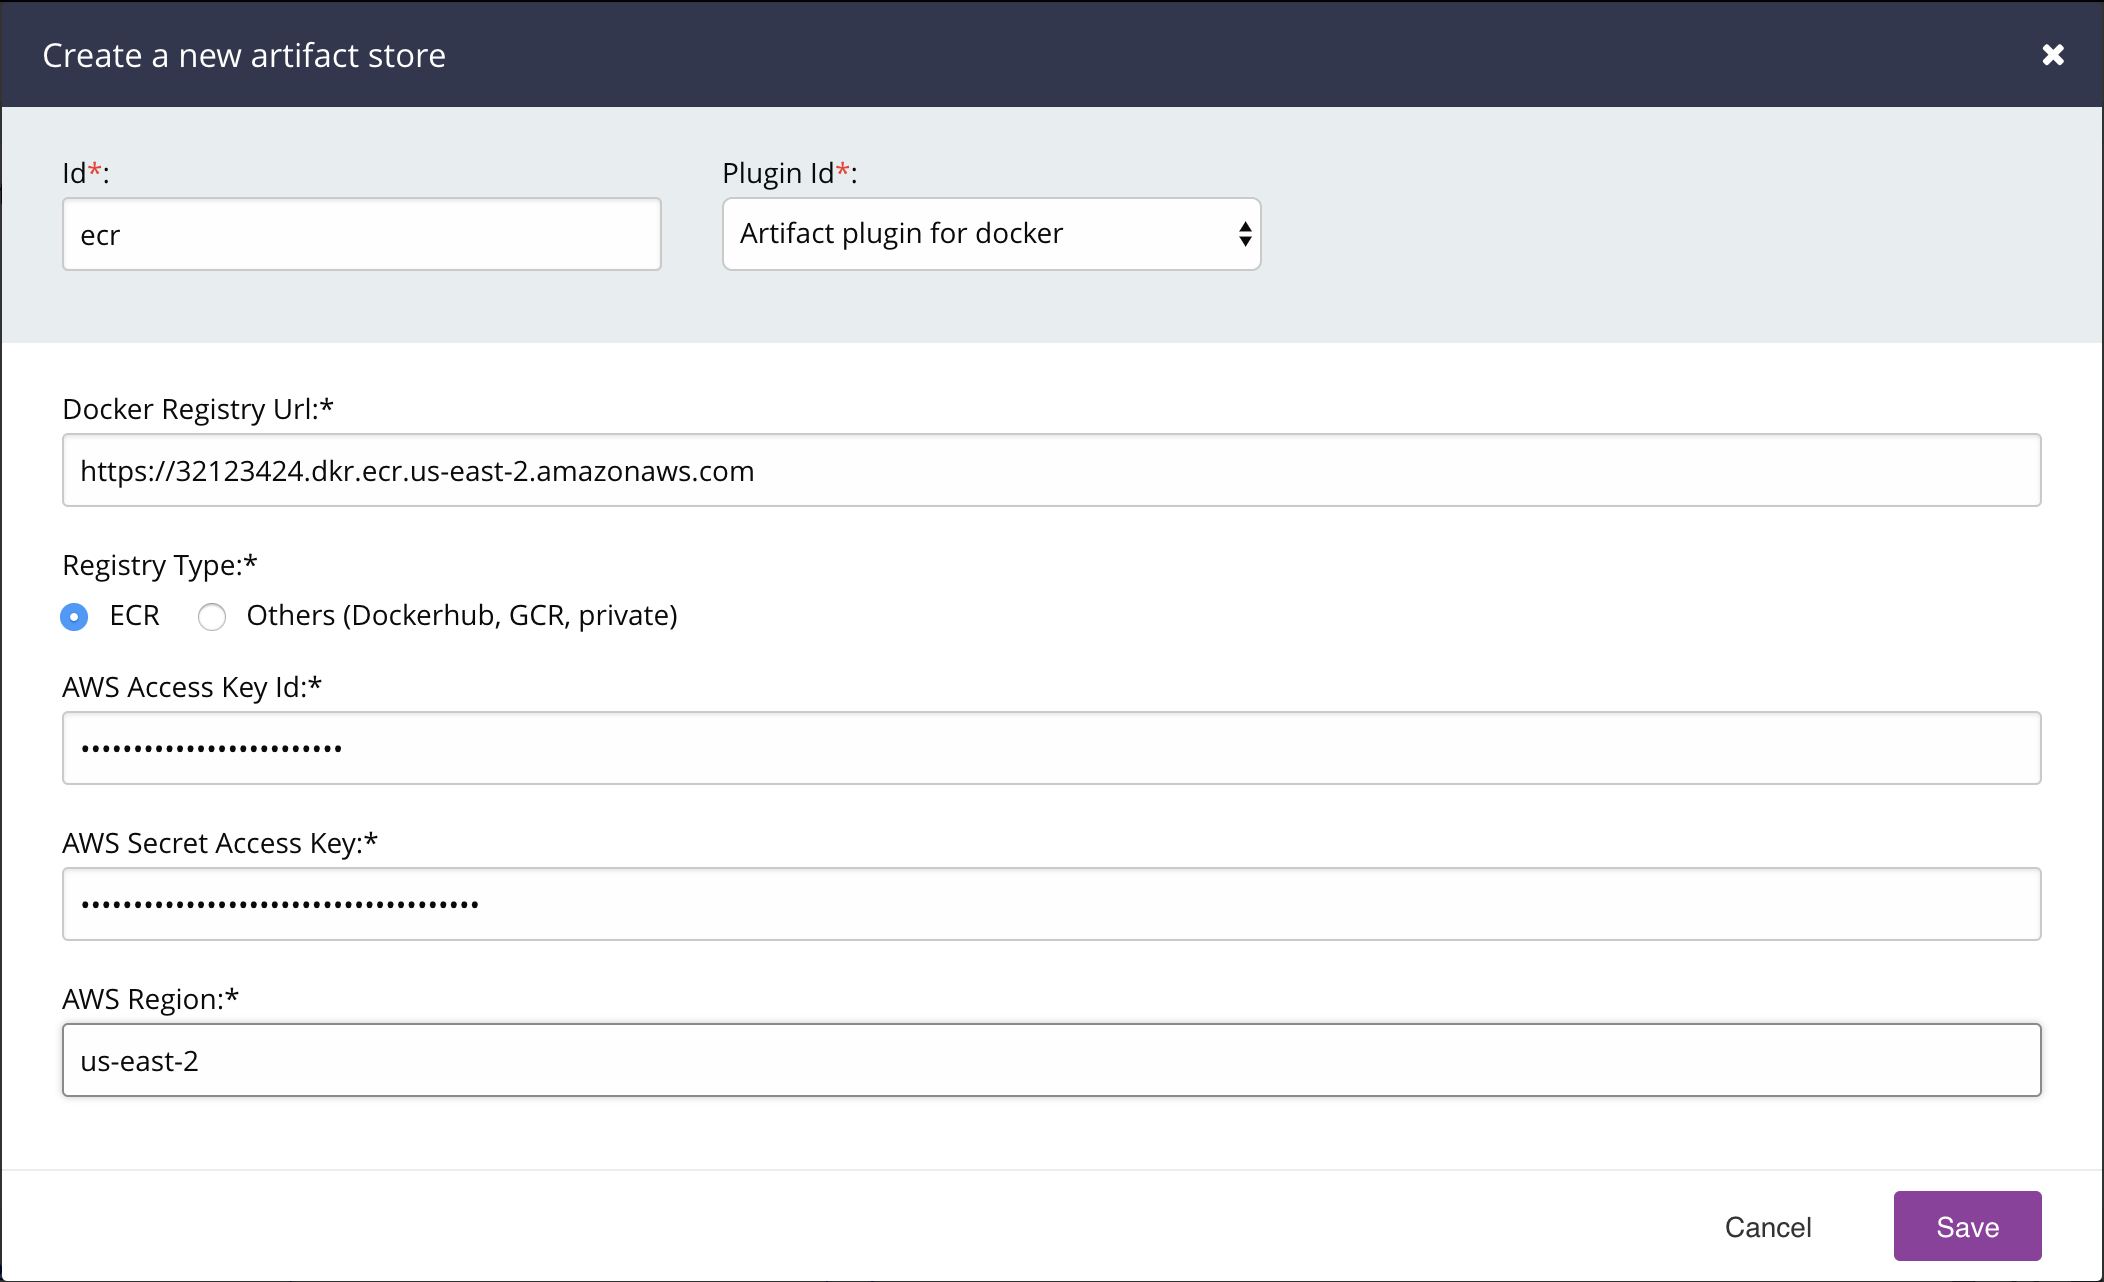
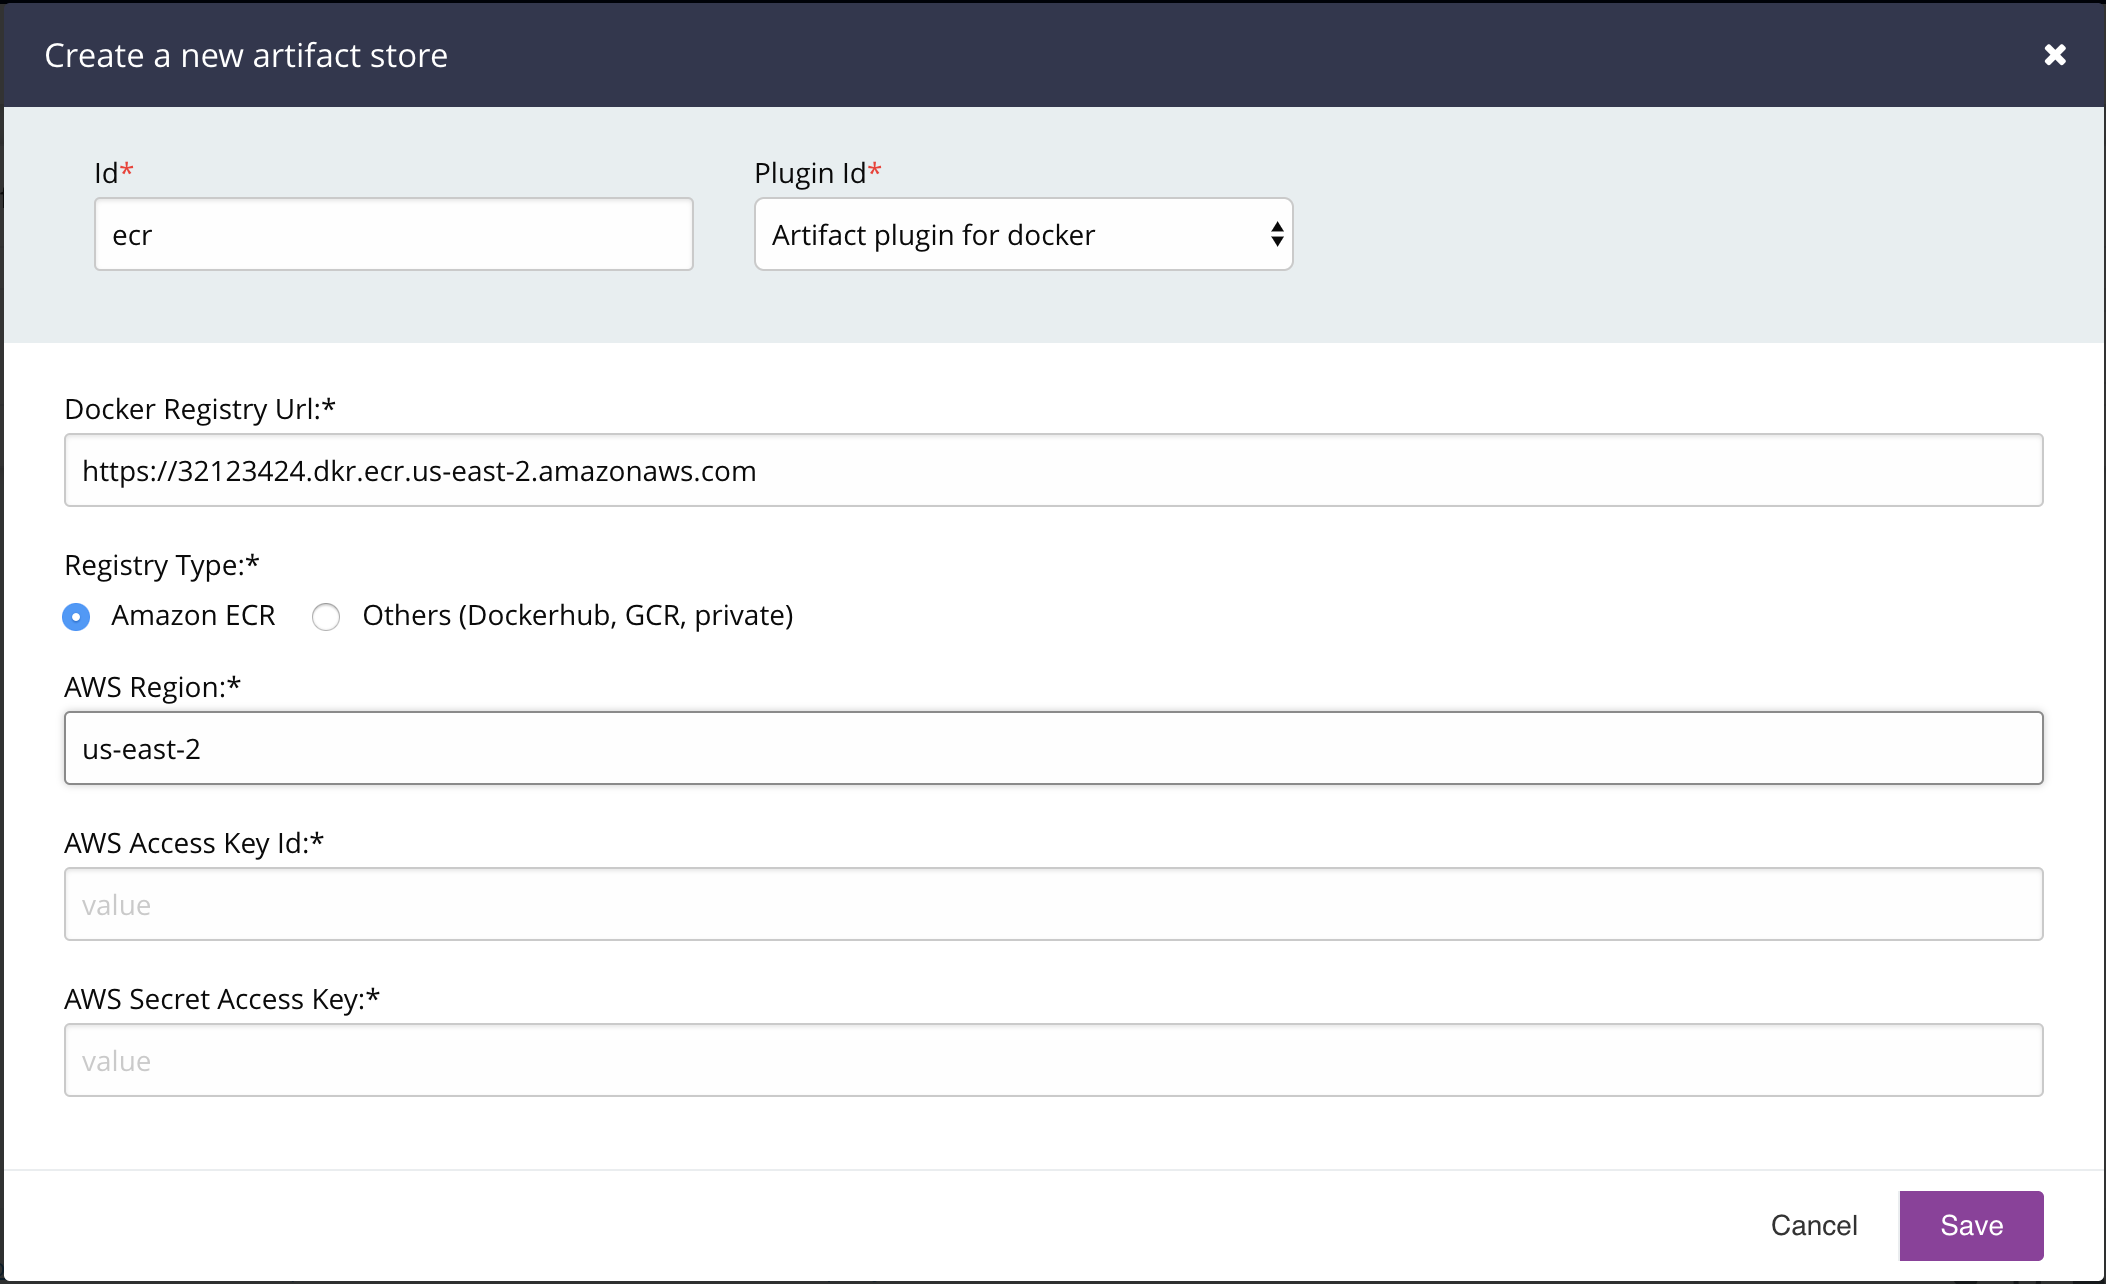
Make AWS keys optional. * If not provided, to get the ECR token - environment variables, system properties, aws profile (~/.aws/credentials), instance profile are checked.

diff --git a/src/main/resources/artifact-store.template.html b/src/main/resources/artifact-store.template.html
@@ -16,21 +16,21 @@
 
 <div ng-show="RegistryType == 'ecr'">
     <div class="form_item_block">
-        <label ng-class="{'is-invalid-label': GOINPUTNAME[AWSAccessKeyId].$error.server}">AWS Access Key Id:<span class='asterix'>*</span></label>
+        <label ng-class="{'is-invalid-label': GOINPUTNAME[AWSRegion].$error.server}">AWS Region:<span class='asterix'>*</span></label>
+        <input ng-class="{'is-invalid-input': GOINPUTNAME[AWSRegion].$error.server}" type="text" ng-model="AWSRegion" ng-required="true" placeholder="value"/>
+        <span class="form_error form-error" ng-class="{'is-visible': GOINPUTNAME[AWSRegion].$error.server}" ng-show="GOINPUTNAME[AWSRegion].$error.server">{{GOINPUTNAME[AWSRegion].$error.server}}</span>
+    </div>
+
+    <div class="form_item_block">
+        <label ng-class="{'is-invalid-label': GOINPUTNAME[AWSAccessKeyId].$error.server}">AWS Access Key Id:</label>
         <input ng-class="{'is-invalid-input': GOINPUTNAME[AWSAccessKeyId].$error.server}" type="password" ng-model="AWSAccessKeyId" ng-required="true" placeholder="value"/>
         <span class="form_error form-error" ng-class="{'is-visible': GOINPUTNAME[AWSAccessKeyId].$error.server}" ng-show="GOINPUTNAME[AWSAccessKeyId].$error.server">{{GOINPUTNAME[AWSAccessKeyId].$error.server}}</span>
     </div>
 
     <div class="form_item_block">
-        <label ng-class="{'is-invalid-label': GOINPUTNAME[AWSSecretAccessKey].$error.server}">AWS Secret Access Key:<span class='asterix'>*</span></label>
+        <label ng-class="{'is-invalid-label': GOINPUTNAME[AWSSecretAccessKey].$error.server}">AWS Secret Access Key:</label>
         <input ng-class="{'is-invalid-input': GOINPUTNAME[AWSSecretAccessKey].$error.server}" type="password" ng-model="AWSSecretAccessKey" ng-required="true" placeholder="value"/>
         <span class="form_error form-error" ng-class="{'is-visible': GOINPUTNAME[AWSSecretAccessKey].$error.server}" ng-show="GOINPUTNAME[AWSSecretAccessKey].$error.server">{{GOINPUTNAME[AWSSecretAccessKey].$error.server}}</span>
-    </div>
-
-    <div class="form_item_block">
-        <label ng-class="{'is-invalid-label': GOINPUTNAME[AWSRegion].$error.server}">AWS Region:<span class='asterix'>*</span></label>
-        <input ng-class="{'is-invalid-input': GOINPUTNAME[AWSRegion].$error.server}" type="text" ng-model="AWSRegion" ng-required="true" placeholder="value"/>
-        <span class="form_error form-error" ng-class="{'is-visible': GOINPUTNAME[AWSRegion].$error.server}" ng-show="GOINPUTNAME[AWSRegion].$error.server">{{GOINPUTNAME[AWSRegion].$error.server}}</span>
     </div>
 </div>
 

diff --git a/src/main/java/cd/go/artifact/docker/registry/AWSTokenRequestGenerator.java b/src/main/java/cd/go/artifact/docker/registry/AWSTokenRequestGenerator.java
@@ -1,0 +1,71 @@
+/*
+ * Copyright 2019 ThoughtWorks, Inc.
+ *
+ * Licensed under the Apache License, Version 2.0 (the "License");
+ * you may not use this file except in compliance with the License.
+ * You may obtain a copy of the License at
+ *
+ *     http://www.apache.org/licenses/LICENSE-2.0
+ *
+ * Unless required by applicable law or agreed to in writing, software
+ * distributed under the License is distributed on an "AS IS" BASIS,
+ * WITHOUT WARRANTIES OR CONDITIONS OF ANY KIND, either express or implied.
+ * See the License for the specific language governing permissions and
+ * limitations under the License.
+ */
+
+package cd.go.artifact.docker.registry;
+
+import cd.go.artifact.docker.registry.model.ArtifactStoreConfig;
+import com.amazonaws.auth.AWSStaticCredentialsProvider;
+import com.amazonaws.auth.BasicAWSCredentials;
+import com.amazonaws.auth.DefaultAWSCredentialsProviderChain;
+import com.amazonaws.client.builder.AwsSyncClientBuilder;
+import com.amazonaws.services.ecr.AmazonECR;
+import com.amazonaws.services.ecr.AmazonECRClient;
+import com.amazonaws.services.ecr.AmazonECRClientBuilder;
+import com.amazonaws.services.ecr.model.GetAuthorizationTokenRequest;
+import com.amazonaws.services.ecr.model.GetAuthorizationTokenResult;
+
+import java.util.Base64;
+
+import static org.apache.commons.lang.StringUtils.isNotBlank;
+
+public class AWSTokenRequestGenerator {
+    private AwsSyncClientBuilder<AmazonECRClientBuilder, AmazonECR> builder;
+
+    AWSTokenRequestGenerator() {
+        builder = AmazonECRClient.builder();
+    }
+
+    AWSTokenRequestGenerator(AwsSyncClientBuilder<AmazonECRClientBuilder, AmazonECR> builder) {
+        this.builder = builder;
+    }
+
+    AwsSyncClientBuilder<AmazonECRClientBuilder, AmazonECR> getBuilder() {
+        return builder;
+    }
+
+    String[] getUsernameAndPasswordFromECRToken(ArtifactStoreConfig artifactStoreConfig) {
+        builder.setRegion(artifactStoreConfig.getAwsRegion());
+        setCredentialsProvider(artifactStoreConfig);
+        GetAuthorizationTokenResult authorizationTokenResult = builder.build().getAuthorizationToken(new GetAuthorizationTokenRequest().withRegistryIds(getAwsAccountIdFromURL(artifactStoreConfig.getRegistryUrl())));
+        String authorizationToken = authorizationTokenResult.getAuthorizationData().get(0).getAuthorizationToken();
+        return new String(Base64.getDecoder().decode(authorizationToken)).split(":");
+    }
+
+    void setCredentialsProvider(ArtifactStoreConfig artifactStoreConfig) {
+        if (isNotBlank(artifactStoreConfig.getAwsAccessKeyId()) || isNotBlank(artifactStoreConfig.getAwsSecretAccessKey())) {
+            AWSStaticCredentialsProvider awsStaticCredentialsProvider = new AWSStaticCredentialsProvider(new BasicAWSCredentials(artifactStoreConfig.getAwsAccessKeyId(), artifactStoreConfig.getAwsSecretAccessKey()));
+            builder.setCredentials(awsStaticCredentialsProvider);
+        }
+        else {
+            builder.setCredentials(new DefaultAWSCredentialsProviderChain());
+        }
+    }
+
+    private String getAwsAccountIdFromURL(String registryUrl) {
+        return registryUrl.split("//")[1].split("\\.")[0];
+    }
+
+}

diff --git a/src/main/java/cd/go/artifact/docker/registry/RegistryAuthSupplierChain.java b/src/main/java/cd/go/artifact/docker/registry/RegistryAuthSupplierChain.java
@@ -17,31 +17,19 @@
 package cd.go.artifact.docker.registry;
 
 import cd.go.artifact.docker.registry.model.ArtifactStoreConfig;
-import com.amazonaws.auth.AWSStaticCredentialsProvider;
-import com.amazonaws.auth.BasicAWSCredentials;
-import com.amazonaws.client.builder.AwsSyncClientBuilder;
-import com.amazonaws.services.ecr.AmazonECR;
-import com.amazonaws.services.ecr.AmazonECRClientBuilder;
-import com.amazonaws.services.ecr.model.GetAuthorizationTokenRequest;
-import com.amazonaws.services.ecr.model.GetAuthorizationTokenResult;
 import com.spotify.docker.client.auth.RegistryAuthSupplier;
 import com.spotify.docker.client.messages.RegistryAuth;
 import com.spotify.docker.client.messages.RegistryConfigs;
 
-import java.util.Base64;
 import java.util.Collections;
 
 public class RegistryAuthSupplierChain implements RegistryAuthSupplier {
     private final RegistryAuth registryAuth;
 
-    public RegistryAuthSupplierChain(ArtifactStoreConfig artifactStoreConfig, AwsSyncClientBuilder<AmazonECRClientBuilder, AmazonECR> builder) {
+    RegistryAuthSupplierChain(ArtifactStoreConfig artifactStoreConfig, AWSTokenRequestGenerator tokenRequestGenerator) {
         String username, password;
         if (artifactStoreConfig.isRegistryTypeEcr()) {
-            builder.setRegion(artifactStoreConfig.getAwsRegion());
-            builder.setCredentials(new AWSStaticCredentialsProvider(new BasicAWSCredentials(artifactStoreConfig.getAwsAccessKeyId(), artifactStoreConfig.getAwsSecretAccessKey())));
-            GetAuthorizationTokenResult authorizationTokenResult = builder.build().getAuthorizationToken(new GetAuthorizationTokenRequest().withRegistryIds(getAwsAccountIdFromURL(artifactStoreConfig.getRegistryUrl())));
-            String authorizationToken = authorizationTokenResult.getAuthorizationData().get(0).getAuthorizationToken();
-            String[] usernameAndPassword = new String(Base64.getDecoder().decode(authorizationToken)).split(":");
+            String[] usernameAndPassword = tokenRequestGenerator.getUsernameAndPasswordFromECRToken(artifactStoreConfig);
             username = usernameAndPassword[0];
             password = usernameAndPassword[1];
         }
@@ -53,10 +41,6 @@ public class RegistryAuthSupplierChain implements RegistryAuthSupplier {
                 .username(username)
                 .serverAddress(artifactStoreConfig.getRegistryUrl())
                 .password(password).build();
-    }
-
-    private String getAwsAccountIdFromURL(String registryUrl) {
-        return registryUrl.split("//")[1].split("\\.")[0];
     }
 
     @Override

diff --git a/src/test/java/cd/go/artifact/docker/registry/AWSTokenRequestGeneratorTest.java b/src/test/java/cd/go/artifact/docker/registry/AWSTokenRequestGeneratorTest.java
@@ -1,0 +1,44 @@
+/*
+ * Copyright 2019 ThoughtWorks, Inc.
+ *
+ * Licensed under the Apache License, Version 2.0 (the "License");
+ * you may not use this file except in compliance with the License.
+ * You may obtain a copy of the License at
+ *
+ *     http://www.apache.org/licenses/LICENSE-2.0
+ *
+ * Unless required by applicable law or agreed to in writing, software
+ * distributed under the License is distributed on an "AS IS" BASIS,
+ * WITHOUT WARRANTIES OR CONDITIONS OF ANY KIND, either express or implied.
+ * See the License for the specific language governing permissions and
+ * limitations under the License.
+ */
+
+package cd.go.artifact.docker.registry;
+
+import cd.go.artifact.docker.registry.model.ArtifactStoreConfig;
+import com.amazonaws.auth.AWSCredentialsProvider;
+import com.amazonaws.auth.AWSStaticCredentialsProvider;
+import com.amazonaws.auth.DefaultAWSCredentialsProviderChain;
+import org.junit.Test;
+
+import static org.assertj.core.api.Assertions.assertThat;
+
+public class AWSTokenRequestGeneratorTest {
+
+    @Test
+    public void shouldUseAwsStaticCredentialProviderIfAwsKeysAreConfigured() {
+        AWSTokenRequestGenerator awsTokenRequestGenerator = new AWSTokenRequestGenerator();
+        awsTokenRequestGenerator.setCredentialsProvider(new ArtifactStoreConfig("registry-url", "ecr", "awsAccessKeyId", "awsSecretKey", "awsRegion"));
+        AWSCredentialsProvider credentialsProvider = awsTokenRequestGenerator.getBuilder().getCredentials();
+        assertThat(credentialsProvider).isInstanceOf(AWSStaticCredentialsProvider.class);
+    }
+
+    @Test
+    public void shouldUseDefaultCredentialsProvider() {
+        AWSTokenRequestGenerator awsTokenRequestGenerator = new AWSTokenRequestGenerator();
+        awsTokenRequestGenerator.setCredentialsProvider(new ArtifactStoreConfig("registry-url", "ecr", null, null, "awsRegion"));
+        AWSCredentialsProvider credentialsProvider = awsTokenRequestGenerator.getBuilder().getCredentials();
+        assertThat(credentialsProvider).isInstanceOf(DefaultAWSCredentialsProviderChain.class);
+    }
+}

diff --git a/src/test/java/cd/go/artifact/docker/registry/RegistryAuthSupplierChainTest.java b/src/test/java/cd/go/artifact/docker/registry/RegistryAuthSupplierChainTest.java
@@ -45,7 +45,7 @@ public class RegistryAuthSupplierChainTest {
     public void shouldBuildRegistryAuthSupplierFromArtifactStoreConfigIfTypeIsOther() {
         final ArtifactStoreConfig artifactStoreConfig = new ArtifactStoreConfig("registry-url", "other", "username", "password");
 
-        final RegistryAuthSupplierChain registryAuthSupplierChain = new RegistryAuthSupplierChain(artifactStoreConfig, AmazonECRClient.builder());
+        final RegistryAuthSupplierChain registryAuthSupplierChain = new RegistryAuthSupplierChain(artifactStoreConfig, new AWSTokenRequestGenerator());
 
         final RegistryAuth registryAuth = registryAuthSupplierChain.authFor("foo");
         assertThat(registryAuth.serverAddress()).isEqualTo(artifactStoreConfig.getRegistryUrl());
@@ -66,7 +66,7 @@ public class RegistryAuthSupplierChainTest {
         when(mockAuthorizationTokenResult.getAuthorizationData()).thenReturn(authorizationData);
         when(mockAuthorization.getAuthorizationToken()).thenReturn(Base64.getEncoder().encodeToString(usernameAndPassword.getBytes()));
 
-        final RegistryAuthSupplierChain registryAuthSupplierChain = new RegistryAuthSupplierChain(artifactStoreConfig, new MockAwsECRClientBuilder(new ClientConfigurationFactory()));
+        final RegistryAuthSupplierChain registryAuthSupplierChain = new RegistryAuthSupplierChain(artifactStoreConfig, new AWSTokenRequestGenerator(new MockAwsECRClientBuilder(new ClientConfigurationFactory())));
         final RegistryAuth registryAuth = registryAuthSupplierChain.authFor("foo");
 
         assertThat(registryAuth.serverAddress()).isEqualTo(artifactStoreConfig.getRegistryUrl());

diff --git a/src/test/java/cd/go/artifact/docker/registry/executors/ValidateArtifactStoreConfigExecutorExecutorTest.java b/src/test/java/cd/go/artifact/docker/registry/executors/ValidateArtifactStoreConfigExecutorExecutorTest.java
@@ -129,7 +129,7 @@ public class ValidateArtifactStoreConfigExecutorExecutorTest {
     }
 
     @Test
-    public void shouldValidatePresenceOfAwsKeysIfTypeIsEcr() throws JSONException {
+    public void shouldValidatePresenceOfAwsRegionIfTypeIsEcr() throws JSONException {
         String requestBody = new JSONObject()
                 .put("RegistryURL", "http://localhost/index")
                 .put("RegistryType", "ecr")
@@ -138,14 +138,6 @@ public class ValidateArtifactStoreConfigExecutorExecutorTest {
 
         final GoPluginApiResponse response = new ValidateArtifactStoreConfigExecutor(request).execute();
         String expectedJSON = "[\n" +
-                "  {\n" +
-                "    \"key\": \"AWSAccessKeyId\",\n" +
-                "    \"message\": \"AWSAccessKeyId must not be blank.\"\n" +
-                "  },\n" +
-                "  {\n" +
-                "    \"key\": \"AWSSecretAccessKey\",\n" +
-                "    \"message\": \"AWSSecretAccessKey must not be blank.\"\n" +
-                "  },\n" +
                 "  {\n" +
                 "    \"key\": \"AWSRegion\",\n" +
                 "    \"message\": \"AWSRegion must not be blank.\"\n" +

diff --git a/src/main/java/cd/go/artifact/docker/registry/DockerClientFactory.java b/src/main/java/cd/go/artifact/docker/registry/DockerClientFactory.java
@@ -38,7 +38,7 @@ public class DockerClientFactory {
     }
 
     private static DefaultDockerClient createClient(ArtifactStoreConfig artifactStoreConfig) throws DockerCertificateException, DockerException, InterruptedException {
-        final RegistryAuthSupplierChain registryAuthSupplier = new RegistryAuthSupplierChain(artifactStoreConfig, AmazonECRClient.builder());
+        final RegistryAuthSupplierChain registryAuthSupplier = new RegistryAuthSupplierChain(artifactStoreConfig, new AWSTokenRequestGenerator());
         DefaultDockerClient docker = DefaultDockerClient.fromEnv().registryAuthSupplier(registryAuthSupplier).build();
 
         LOG.info(format("Using docker registry server `{0}`.", artifactStoreConfig.getRegistryUrl()));

diff --git a/src/main/java/cd/go/artifact/docker/registry/model/ArtifactStoreConfig.java b/src/main/java/cd/go/artifact/docker/registry/model/ArtifactStoreConfig.java
@@ -167,12 +167,6 @@ public class ArtifactStoreConfig implements Validatable {
             }
         }
         if ("ecr".equals(registryType)) {
-            if(StringUtils.isBlank(awsAccessKeyId)) {
-                validationResult.addError("AWSAccessKeyId", "AWSAccessKeyId must not be blank.");
-            }
-            if(StringUtils.isBlank(awsSecretAccessKey)) {
-                validationResult.addError("AWSSecretAccessKey", "AWSSecretAccessKey must not be blank.");
-            }
             if(StringUtils.isBlank(awsRegion)) {
                 validationResult.addError("AWSRegion", "AWSRegion must not be blank.");
             }

diff --git a/README.md b/README.md
@@ -53,9 +53,17 @@ If `RegistryType` is `ecr`:
 
 | Properties                     | Description                                                              | Mandatory                |
 | -------------------------------| ------------------------------------------------------------------------ | ------------------------ |
-| `AWSAccessKeyId`               | The aws access key id to execute ecr get authorization token request     | `yes`                    |
-| `AWSSecretAccessKey`           | The aws secret access key to execute ecr get authorization token request | `yes`                    |
+| `AWSAccessKeyId`               | The aws access key id to execute ecr get authorization token request     | `no`                    |
+| `AWSSecretAccessKey`           | The aws secret access key to execute ecr get authorization token request | `no`                    |
 | `AWSRegion`                    | The aws region key to execute ecr get authorization token request        | `yes`                    |
+
+Note: If the AWSAccessKeyId and AWSSecretAccessKey are not provided, the following configurations are checked:
+
+- Environment Variables `AWS_ACCESS_KEY_ID` and `AWS_SECRET_ACCESS_KEY`
+- System Properties `aws.accessKeyId` and `aws.secretKey`
+- Credential profiles file at the default location (~/.aws/credentials)
+- Credentials delivered through the Amazon EC2 container service if AWS_CONTAINER_CREDENTIALS_RELATIVE_URI" environment variable is set and security manager has permission to access the variable
+- Instance profile credentials delivered through the Amazon EC2 metadata service
 
 If `RegistryType` is `other`
 
